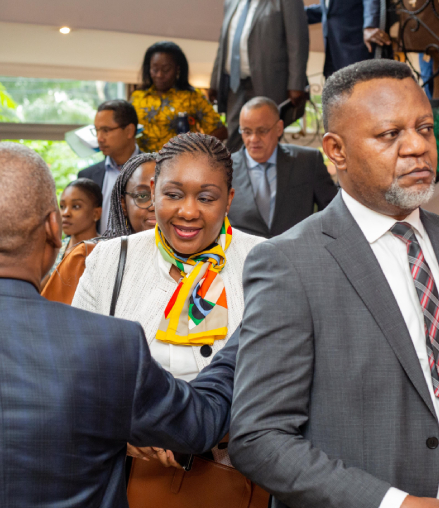
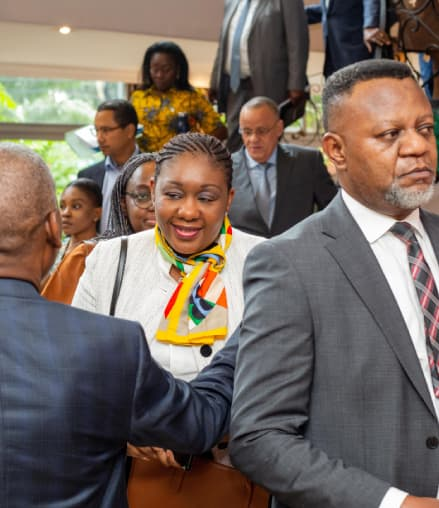
optimisation des images

diff --git a/frontend/src/components/NavbarPublic.jsx b/frontend/src/components/NavbarPublic.jsx
@@ -38,9 +38,9 @@ export default function NavbarPublic() {
                     </ul>
                 </div>
             </div>
-            <ul className={`${!isClick && 'hidden'} col-start-1 col-end-2 row-start-3 row-end-4 pl-[30%] flex flex-col gap-y-6 p-6 lg:flex lg:flex-row lg:bg-white lg:border-2 lg:border-primary-blue lg:justify-end lg:gap-x-6 2xl:px-24`}>
+            <ul className={`${!isClick && 'hidden'} col-start-1 col-end-3 bg-primary-blue row-start-3 row-end-4 pl-[30%] flex flex-col gap-y-8 items-start p-6 lg:flex lg:flex-row lg:bg-white lg:border-2 lg:border-primary-blue lg:justify-end lg:gap-x-6 2xl:px-24`}>
                 <li onClick={handleClickLink}><Link to="formulaireDmd" className='text-white font-bold bg-sky-blue p-3 rounded-xl hover:opacity-80'>Adhérer maintenant</Link></li>
-                <li onClick={handleClickLink}><Link to="suiviDmd" className='text-primary-blue font-bold text-primary-blue border-2 border-primary-blue p-3 rounded-xl hover:bg-gray-100'>Suivi de la demande</Link></li>
+                <li onClick={handleClickLink}><Link to="suiviDmd" className='text-primary-blue font-bold text-primary-blue border-2 border-primary-blue p-3 bg-white rounded-xl hover:bg-gray-100'>Suivi de la demande</Link></li>
                 <li onClick={handleClickLink}>
                     <a href="#faq" className='flex items-center gap-x-2'>
                         <svg className='stroke-white' width="24" height="24" viewBox="0 0 48 48" fill="none" xmlns="http://www.w3.org/2000/svg">

diff --git a/frontend/src/components/Home.jsx b/frontend/src/components/Home.jsx
@@ -2,9 +2,9 @@ import { Link } from "react-router-dom";
 import Slider from "react-slick";
 import "slick-carousel/slick/slick.css";
 import "slick-carousel/slick/slick-theme.css";
-import imgFec01 from "../assets/images/fec001.png";
+import imgFec01 from "../assets/images/fec001.jpg";
 import imgFec02 from "../assets/images/fec002.jpg";
-import imgMembre from "../assets/images/membre01.png";
+import imgMembre from "../assets/images/membre01.jpg";
 import iconArrow from "../assets/images/arrow_downward.svg";
 import imgAvantage01 from "../assets/images/assistance.jpg";
 import imgAvantage02 from "../assets/images/avantage02.jpg";
